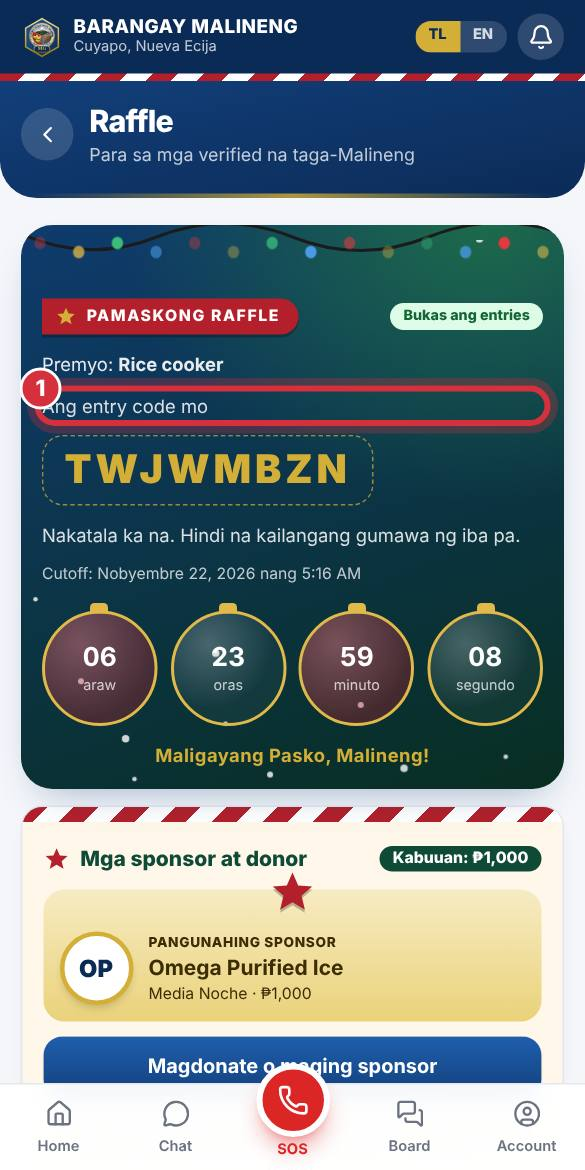
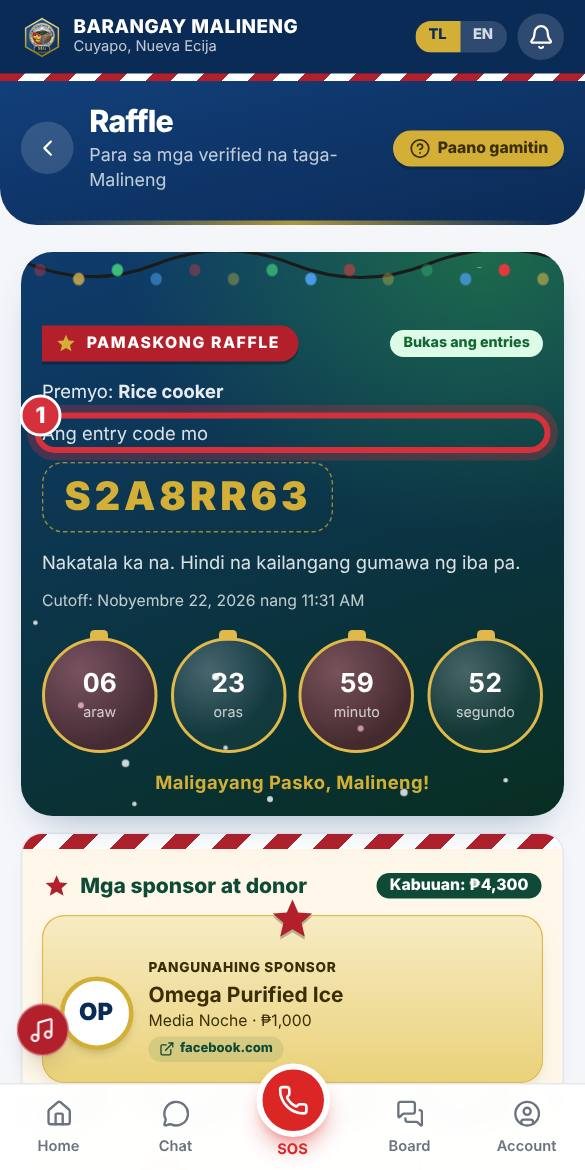
Sponsors: prettier hanging ornaments (gold string, ball, sway), and a Facebook or website link that opens when tapped
Claude-Session: https://claude.ai/code/session_013F6BoHnbdQ1Ng6Eh2JznKS

diff --git a/malineng-web/src/components/RaffleSponsors.tsx b/malineng-web/src/components/RaffleSponsors.tsx
@@ -1,8 +1,8 @@
 "use client";
 
-import { useMemo, useState, type FormEvent } from "react";
+import { useMemo, useState, type FormEvent, type ReactNode } from "react";
 import Link from "next/link";
-import { HandHeart, Receipt } from "lucide-react";
+import { ExternalLink, HandHeart, Receipt } from "lucide-react";
 import { collection, query, where } from "firebase/firestore";
 import { db } from "@/lib/firebase";
 import { useAuth } from "@/context/AuthContext";
@@ -14,6 +14,7 @@ import { useToast } from "@/components/Toast";
 import { LogoPicker } from "@/components/LogoPicker";
 import { useXmas } from "@/lib/raffle";
 import { XmasGarland, XmasStar } from "@/components/Xmas";
+import { linkHost } from "@/lib/raffleDonations";
 
 /** What the donor reads about each step of their pledge. */
 const DONOR_LABEL = {
@@ -22,6 +23,29 @@ const DONOR_LABEL = {
   received: "Natanggap na ang donasyon",
   declined: "Hindi natanggap",
 } as const;
+
+/**
+ * One sponsor: a plain box, or a link to their Facebook page or website when they gave one.
+ * The link opens in a new tab, and the address is shown so people know where the tap goes.
+ */
+function SponsorBox({ s, className, children }: { s: { name: string; link?: string }; className: string; children: ReactNode }) {
+  if (!s.link) return <div className={className}>{children}</div>;
+  return (
+    <a href={s.link} target="_blank" rel="noopener noreferrer nofollow" aria-label={`Buksan ang ${s.name} (${linkHost(s.link)})`} className={`${className} block active:scale-[0.98]`}>
+      {children}
+    </a>
+  );
+}
+
+/** Small "facebook.com ↗" hint under a sponsor that has a link. */
+function LinkHint({ link, dark = false }: { link?: string; dark?: boolean }) {
+  if (!link) return null;
+  return (
+    <span className={`mt-1 inline-flex max-w-full items-center gap-1 rounded-full px-2 py-0.5 text-[0.62rem] font-extrabold ${dark ? "bg-[#0F4A36]/10 text-[#0F4A36]" : "bg-brand-light text-brand"}`}>
+      <ExternalLink className="h-3 w-3 shrink-0" aria-hidden /> <span className="truncate">{linkHost(link)}</span>
+    </span>
+  );
+}
 
 /** The business logo when there is one, otherwise the initials. */
 function SponsorMark({ s, className, xmas = false }: { s: { name: string; logo?: string }; className: string; xmas?: boolean }) {
@@ -66,35 +90,53 @@ export function RaffleSponsors({ full = false }: { full?: boolean }) {
       ) : (
         <>
           {main.map((s) => (
-            <div key={s.id} className={`relative flex items-center gap-3 rounded-2xl bg-gradient-to-b from-gold-light to-[#EAD27A] p-3 text-[#3B2E05] ${xmas ? "mt-5 pt-8" : ""}`}>
+            <SponsorBox key={s.id} s={s} className={`relative flex items-center gap-3 rounded-2xl bg-gradient-to-b from-gold-light to-[#EAD27A] p-3 text-[#3B2E05] shadow-[0_8px_18px_-10px_rgba(120,80,0,.6)] ${xmas ? "mt-5 pt-8 ring-1 ring-[#E0B94A]" : ""}`}>
               {xmas && <XmasStar className="absolute -top-4 left-1/2 h-9 w-9 -translate-x-1/2 fill-[#B3202B] drop-shadow-[0_2px_0_rgba(0,0,0,.25)]" />}
               <SponsorMark s={s} xmas={xmas} className="h-14 w-14 rounded-2xl bg-white text-lg" />
               <span className="min-w-0">
                 <span className="block text-[0.65rem] font-extrabold tracking-wider">PANGUNAHING SPONSOR</span>
                 <b className="block truncate">{s.name}</b>
                 <span className="block text-xs">{s.what}{s.amount ? ` · ${formatPeso(s.amount).replace(".00", "")}` : ""}</span>
+                <LinkHint link={s.link} dark />
               </span>
-            </div>
+            </SponsorBox>
           ))}
           {(full ? others : others.slice(0, 4)).length > 0 && (
             <>
               {xmas && <XmasGarland />}
-              <ul className={`grid grid-cols-2 ${xmas ? "gap-x-3 gap-y-10 pt-8" : "gap-2"}`}>
-                {(full ? others : others.slice(0, 4)).map((s) => (
-                  <li key={s.id} className={`relative flex flex-col items-center gap-1 rounded-2xl p-2.5 text-center ${xmas ? "border border-gray-100 bg-white pt-9" : "bg-surface"}`}>
-                    {xmas ? (
-                      <span className="absolute -top-7 left-1/2 -translate-x-1/2">
-                        <span className="absolute -top-2.5 left-1/2 h-3 w-0.5 -translate-x-1/2 bg-gold" aria-hidden />
-                        <SponsorMark s={s} xmas className="h-14 w-14 bg-brand-light text-base" />
-                      </span>
-                    ) : (
-                      <SponsorMark s={s} className="h-14 w-14 rounded-2xl bg-brand-light text-base" />
-                    )}
-                    <b className="line-clamp-1 text-sm">{s.name}</b>
-                    <span className="line-clamp-1 text-xs text-gray-600">{s.what}</span>
-                    {s.amount > 0 && <span className={`text-xs font-bold ${xmas ? "rounded-full bg-[#FDECEE] px-2.5 py-0.5 text-[#B3202B]" : "text-brand"}`}>{formatPeso(s.amount).replace(".00", "")}</span>}
-                  </li>
-                ))}
+              <ul className={`grid grid-cols-2 ${xmas ? "items-start gap-x-3 gap-y-3" : "gap-2"}`} style={xmas ? { marginTop: "-1.1rem" } : undefined}>
+                {(full ? others : others.slice(0, 4)).map((s, i) =>
+                  xmas ? (
+                    // At Christmas each sponsor hangs from the garland on a gold string, like an ornament, at its own height.
+                    <li key={s.id} className={i % 2 ? "pt-2" : ""}>
+                      <div className="xmas-sway" style={{ animationDelay: `-${(i * 1.3) % 5}s` }}>
+                        <span className={`mx-auto block w-px bg-gradient-to-b from-[#D9B53F] to-[#9A7B12] ${i % 2 ? "h-16" : "h-9"}`} aria-hidden />
+                        <SponsorBox s={s} className="relative flex flex-col items-center">
+                          <span className="relative z-10 -mb-8">
+                            <span className="absolute -top-1.5 left-1/2 h-2 w-3 -translate-x-1/2 rounded-t-[3px] bg-gradient-to-b from-[#E8C85A] to-[#B8921E]" aria-hidden />
+                            <SponsorMark s={s} xmas className="h-16 w-16 bg-white text-base" />
+                          </span>
+                          <span className="flex w-full flex-col items-center gap-0.5 rounded-2xl border border-[#EEDFB0] bg-gradient-to-b from-white to-[#FFFAEC] px-2 pb-3 pt-10 text-center shadow-[0_10px_18px_-12px_rgba(120,80,0,.55)]">
+                            <b className="line-clamp-1 w-full text-sm">{s.name}</b>
+                            <span className="line-clamp-1 w-full text-xs text-gray-600">{s.what}</span>
+                            {s.amount > 0 && <span className="rounded-full bg-[#FDECEE] px-2.5 py-0.5 text-xs font-bold text-[#B3202B]">{formatPeso(s.amount).replace(".00", "")}</span>}
+                            <LinkHint link={s.link} dark />
+                          </span>
+                        </SponsorBox>
+                      </div>
+                    </li>
+                  ) : (
+                    <li key={s.id}>
+                      <SponsorBox s={s} className="flex flex-col items-center gap-1 rounded-2xl bg-surface p-2.5 text-center">
+                        <SponsorMark s={s} className="h-14 w-14 rounded-2xl bg-brand-light text-base" />
+                        <b className="line-clamp-1 text-sm">{s.name}</b>
+                        <span className="line-clamp-1 text-xs text-gray-600">{s.what}</span>
+                        {s.amount > 0 && <span className="text-xs font-bold text-brand">{formatPeso(s.amount).replace(".00", "")}</span>}
+                        <LinkHint link={s.link} />
+                      </SponsorBox>
+                    </li>
+                  ),
+                )}
               </ul>
             </>
           )}
@@ -128,6 +170,7 @@ function DonateForm({ uid, onDone }: { uid: string; onDone: () => void }) {
   const [message, setMessage] = useState("");
   const [anon, setAnon] = useState(false);
   const [logo, setLogo] = useState("");
+  const [link, setLink] = useState("");
   const [busy, setBusy] = useState(false);
   const [error, setError] = useState("");
 
@@ -141,7 +184,7 @@ function DonateForm({ uid, onDone }: { uid: string; onDone: () => void }) {
     setBusy(true);
     setError("");
     try {
-      await pledgeDonation(uid, { name, anon, kind, what: kind === "Pera" ? `₱${value.toLocaleString("en-PH")}` : what, amount: value, contact, message, logo });
+      await pledgeDonation(uid, { name, anon, kind, what: kind === "Pera" ? `₱${value.toLocaleString("en-PH")}` : what, amount: value, contact, message, logo, link });
       toast("Salamat! Naipadala ang pangako mo. Makikipag-ugnayan ang Barangay.");
       onDone();
     } catch (err) {
@@ -162,6 +205,7 @@ function DonateForm({ uid, onDone }: { uid: string; onDone: () => void }) {
         <div className="space-y-1">
           <LogoPicker logo={logo} onChange={setLogo} label="Maglagay ng logo ng negosyo (optional)" />
           <p className="text-xs text-gray-500">Lalabas ang logo sa listahan ng sponsor kapag natanggap na ng Barangay ang donasyon mo.</p>
+          <Input label="Facebook page o website ng negosyo (optional)" value={link} onChange={(e) => setLink(e.target.value)} maxLength={300} placeholder="hal. facebook.com/omegaice" inputMode="url" hint="Kapag pinindot ng tao ang sponsor mo sa listahan, doon sila dadalhin." />
         </div>
       )}
       <label className="flex items-start gap-2 text-sm">

diff --git a/malineng-web/src/components/admin/AdminRaffleDonations.tsx b/malineng-web/src/components/admin/AdminRaffleDonations.tsx
@@ -9,7 +9,7 @@ import { useAuth } from "@/context/AuthContext";
 import { useCollection } from "@/lib/useCollection";
 import { logActivity } from "@/lib/activity";
 import { formatPeso, friendlyError, sortNewest, timeAgo } from "@/lib/format";
-import { DONATION_STATUS_LABEL, markReceived, type Donation, type Sponsor } from "@/lib/raffleDonations";
+import { DONATION_STATUS_LABEL, markReceived, normalizeLink, type Donation, type Sponsor } from "@/lib/raffleDonations";
 import { Badge, Button, Card, EmptyState, FilterTabs, Input, Spinner } from "@/components/ui";
 import { LogoPicker } from "@/components/LogoPicker";
 import { useToast } from "@/components/Toast";
@@ -93,6 +93,7 @@ function PledgeCard({ d }: { d: Donation }) {
           </p>
           <p className="text-sm text-gray-600">{d.kind} · <b>{d.what}</b>{d.amount ? ` · ${formatPeso(d.amount).replace(".00", "")}` : ""}</p>
           <p className="text-xs text-gray-500">☎ {d.contact} · {timeAgo(d.createdAt)}</p>
+          {d.link && <p className="break-all text-xs"><a href={d.link} target="_blank" rel="noopener noreferrer nofollow" className="font-semibold text-brand underline">{d.link}</a></p>}
           {d.message && <p className="mt-1 text-sm text-gray-700">&ldquo;{d.message}&rdquo;</p>}
         </div>
         <Badge color={tone(d.status)}>{DONATION_STATUS_LABEL[d.status].split(",")[0]}</Badge>
@@ -166,20 +167,24 @@ function Sponsors({ list }: { list: Sponsor[] }) {
   const [what, setWhat] = useState("");
   const [amount, setAmount] = useState("");
   const [logo, setLogo] = useState("");
+  const [link, setLink] = useState("");
   const [busy, setBusy] = useState(false);
   const sorted = useMemo(() => [...list].sort((a, b) => Number(b.tier === "main") - Number(a.tier === "main")), [list]);
   const total = list.filter((s) => s.show).reduce((sum, s) => sum + (s.amount || 0), 0);
 
   const add = async () => {
     if (name.trim().length < 2 || !what.trim()) return toast("Ilagay ang pangalan at kung ano ang ibinigay.", "error");
+    const fixed = normalizeLink(link);
+    if (link.trim() && !fixed) return toast("Hindi tama ang link. Gamitin ang Facebook page o website (hal. facebook.com/pangalan).", "error");
     setBusy(true);
     try {
-      await setDoc(doc(collection(db, "raffleSponsors")), { name: name.trim().slice(0, 120), what: what.trim().slice(0, 120), amount: Math.max(0, Math.round(Number(amount) || 0)), tier: "reg", show: true, ...(logo ? { logo } : {}), createdAt: serverTimestamp() });
+      await setDoc(doc(collection(db, "raffleSponsors")), { name: name.trim().slice(0, 120), what: what.trim().slice(0, 120), amount: Math.max(0, Math.round(Number(amount) || 0)), tier: "reg", show: true, ...(logo ? { logo } : {}), ...(fixed ? { link: fixed } : {}), createdAt: serverTimestamp() });
       logActivity("Raffle", `Nagdagdag ng sponsor: ${name.trim()}`);
       setName("");
       setWhat("");
       setAmount("");
       setLogo("");
+      setLink("");
       toast("Naidagdag ang sponsor.");
     } catch (err) {
       toast(friendlyError(err), "error");
@@ -213,6 +218,22 @@ function Sponsors({ list }: { list: Sponsor[] }) {
             <Badge color={s.tier === "main" ? "gold" : "gray"}>{s.tier === "main" ? "Pangunahin" : "Sponsor"}</Badge>
           </div>
           <LogoPicker logo={s.logo} onChange={(l) => patch(s, { logo: l }, `${l ? "Nilagyan" : "Inalis ang"} logo ang sponsor: ${s.name}`)} />
+          <Input
+            key={`${s.id}-${s.link ?? ""}`}
+            label="Link (Facebook o website)"
+            defaultValue={s.link ?? ""}
+            placeholder="hal. facebook.com/omegaice"
+            inputMode="url"
+            maxLength={300}
+            hint="Kapag pinindot ang sponsor sa Home, doon sila dadalhin. Iwanang blangko kung wala."
+            onBlur={(e) => {
+              const raw = e.target.value;
+              const fixed = normalizeLink(raw);
+              if (raw.trim() && !fixed) return toast("Hindi tama ang link.", "error");
+              if (fixed === (s.link ?? "")) return;
+              patch(s, { link: fixed }, `${fixed ? "Nilagyan" : "Inalis ang"} link ang sponsor: ${s.name}`);
+            }}
+          />
           <div className="grid grid-cols-3 gap-2">
             <Button variant="outline" onClick={() => patch(s, { tier: s.tier === "main" ? "reg" : "main" }, `Binago ang antas ng sponsor: ${s.name}`)}>{s.tier === "main" ? "Gawing karaniwan" : "Gawing pangunahin"}</Button>
             <Button variant="outline" onClick={() => patch(s, { show: !s.show }, `${s.show ? "Itinago" : "Ipinakita"} ang sponsor: ${s.name}`)}>{s.show ? "Itago" : "Ipakita"}</Button>
@@ -226,6 +247,7 @@ function Sponsors({ list }: { list: Sponsor[] }) {
         <Input label="Ibinigay" value={what} onChange={(e) => setWhat(e.target.value)} maxLength={120} placeholder="hal. Grocery package with rice" />
         <Input label="Halaga (₱)" type="number" inputMode="numeric" min={0} value={amount} onChange={(e) => setAmount(e.target.value)} />
         <LogoPicker logo={logo} onChange={setLogo} label="Maglagay ng logo (optional)" />
+        <Input label="Link (Facebook o website, optional)" value={link} onChange={(e) => setLink(e.target.value)} placeholder="hal. facebook.com/omegaice" inputMode="url" maxLength={300} />
         <Button full loading={busy} onClick={add}>Idagdag</Button>
       </Card>
     </>

diff --git a/malineng-web/src/lib/raffleDonations.ts b/malineng-web/src/lib/raffleDonations.ts
@@ -23,6 +23,8 @@ export interface Donation {
   message: string;
   /** Optional business logo from the donor (small JPEG data URL). It is shown publicly only after the Barangay receives the donation. */
   logo?: string;
+  /** Optional Facebook page or website of the donor's business. */
+  link?: string;
   status: DonationStatus;
   receiptNo?: string;
   receivedBy?: string;
@@ -42,7 +44,35 @@ export interface Sponsor {
   donationId?: string;
   /** Business logo (small JPEG data URL, set by an admin). */
   logo?: string;
+  /** Facebook page or website of the business. Tapping the sponsor opens it. */
+  link?: string;
   createdAt?: Timestamp;
+}
+
+/**
+ * Cleans a pasted Facebook page or website. "facebook.com/omega" becomes "https://facebook.com/omega".
+ * Only http and https links with a real host are kept (never javascript: or anything else); anything else gives "".
+ */
+export function normalizeLink(raw: string): string {
+  const t = raw.trim().slice(0, 300);
+  if (!t) return "";
+  const withScheme = /^https?:\/\//i.test(t) ? t : /^[a-z][a-z0-9+.-]*:/i.test(t) ? "" : `https://${t}`;
+  if (!withScheme) return "";
+  try {
+    const u = new URL(withScheme);
+    return (u.protocol === "https:" || u.protocol === "http:") && u.hostname.includes(".") ? u.toString() : "";
+  } catch {
+    return "";
+  }
+}
+
+/** "https://www.facebook.com/omega" -> "facebook.com" (shown under the sponsor so people know where the tap goes). */
+export function linkHost(link: string): string {
+  try {
+    return new URL(link).hostname.replace(/^www\./, "");
+  } catch {
+    return "";
+  }
 }
 
 export const DONATION_STATUS_LABEL: Record<DonationStatus, string> = {
@@ -62,7 +92,7 @@ export function newReceiptNo(): string {
   return `RAF-${d.getFullYear()}${p(d.getMonth() + 1)}${p(d.getDate())}-${Array.from(bytes, (b) => alphabet[b % alphabet.length]).join("")}`;
 }
 
-export async function pledgeDonation(uid: string, d: { name: string; anon: boolean; kind: DonationKind; what: string; amount: number; contact: string; message: string; logo?: string }): Promise<void> {
+export async function pledgeDonation(uid: string, d: { name: string; anon: boolean; kind: DonationKind; what: string; amount: number; contact: string; message: string; logo?: string; link?: string }): Promise<void> {
   await setDoc(doc(collection(db, "raffleDonations")), {
     userId: uid,
     name: d.name.trim().slice(0, 120),
@@ -73,6 +103,7 @@ export async function pledgeDonation(uid: string, d: { name: string; anon: boole
     contact: d.contact.trim().slice(0, 30),
     message: d.message.trim().slice(0, 300),
     ...(d.logo && !d.anon ? { logo: d.logo } : {}),
+    ...(d.link && !d.anon && normalizeLink(d.link) ? { link: normalizeLink(d.link) } : {}),
     status: "new",
     createdAt: serverTimestamp(),
   });
@@ -99,6 +130,7 @@ export async function markReceived(d: Donation, actor: { uid: string; name: stri
     donationId: d.id,
     // Anonymous donors never get a logo on the list.
     ...(d.logo && !d.anon ? { logo: d.logo } : {}),
+    ...(d.link && !d.anon ? { link: d.link } : {}),
     createdAt: serverTimestamp(),
   });
   await batch.commit();

diff --git a/malineng-web/src/app/globals.css b/malineng-web/src/app/globals.css
@@ -131,3 +131,17 @@ textarea {
 @keyframes xmas-fall {
   to { transform: translateY(420px) translateX(14px); }
 }
+
+/* Sponsors hanging from the Christmas garland sway a little, each at its own pace. */
+.xmas-sway {
+  transform-origin: top center;
+}
+@media (prefers-reduced-motion: no-preference) {
+  .xmas-sway {
+    animation: xmas-swing 5s ease-in-out infinite alternate;
+  }
+}
+@keyframes xmas-swing {
+  from { transform: rotate(-1.4deg); }
+  to { transform: rotate(1.4deg); }
+}
